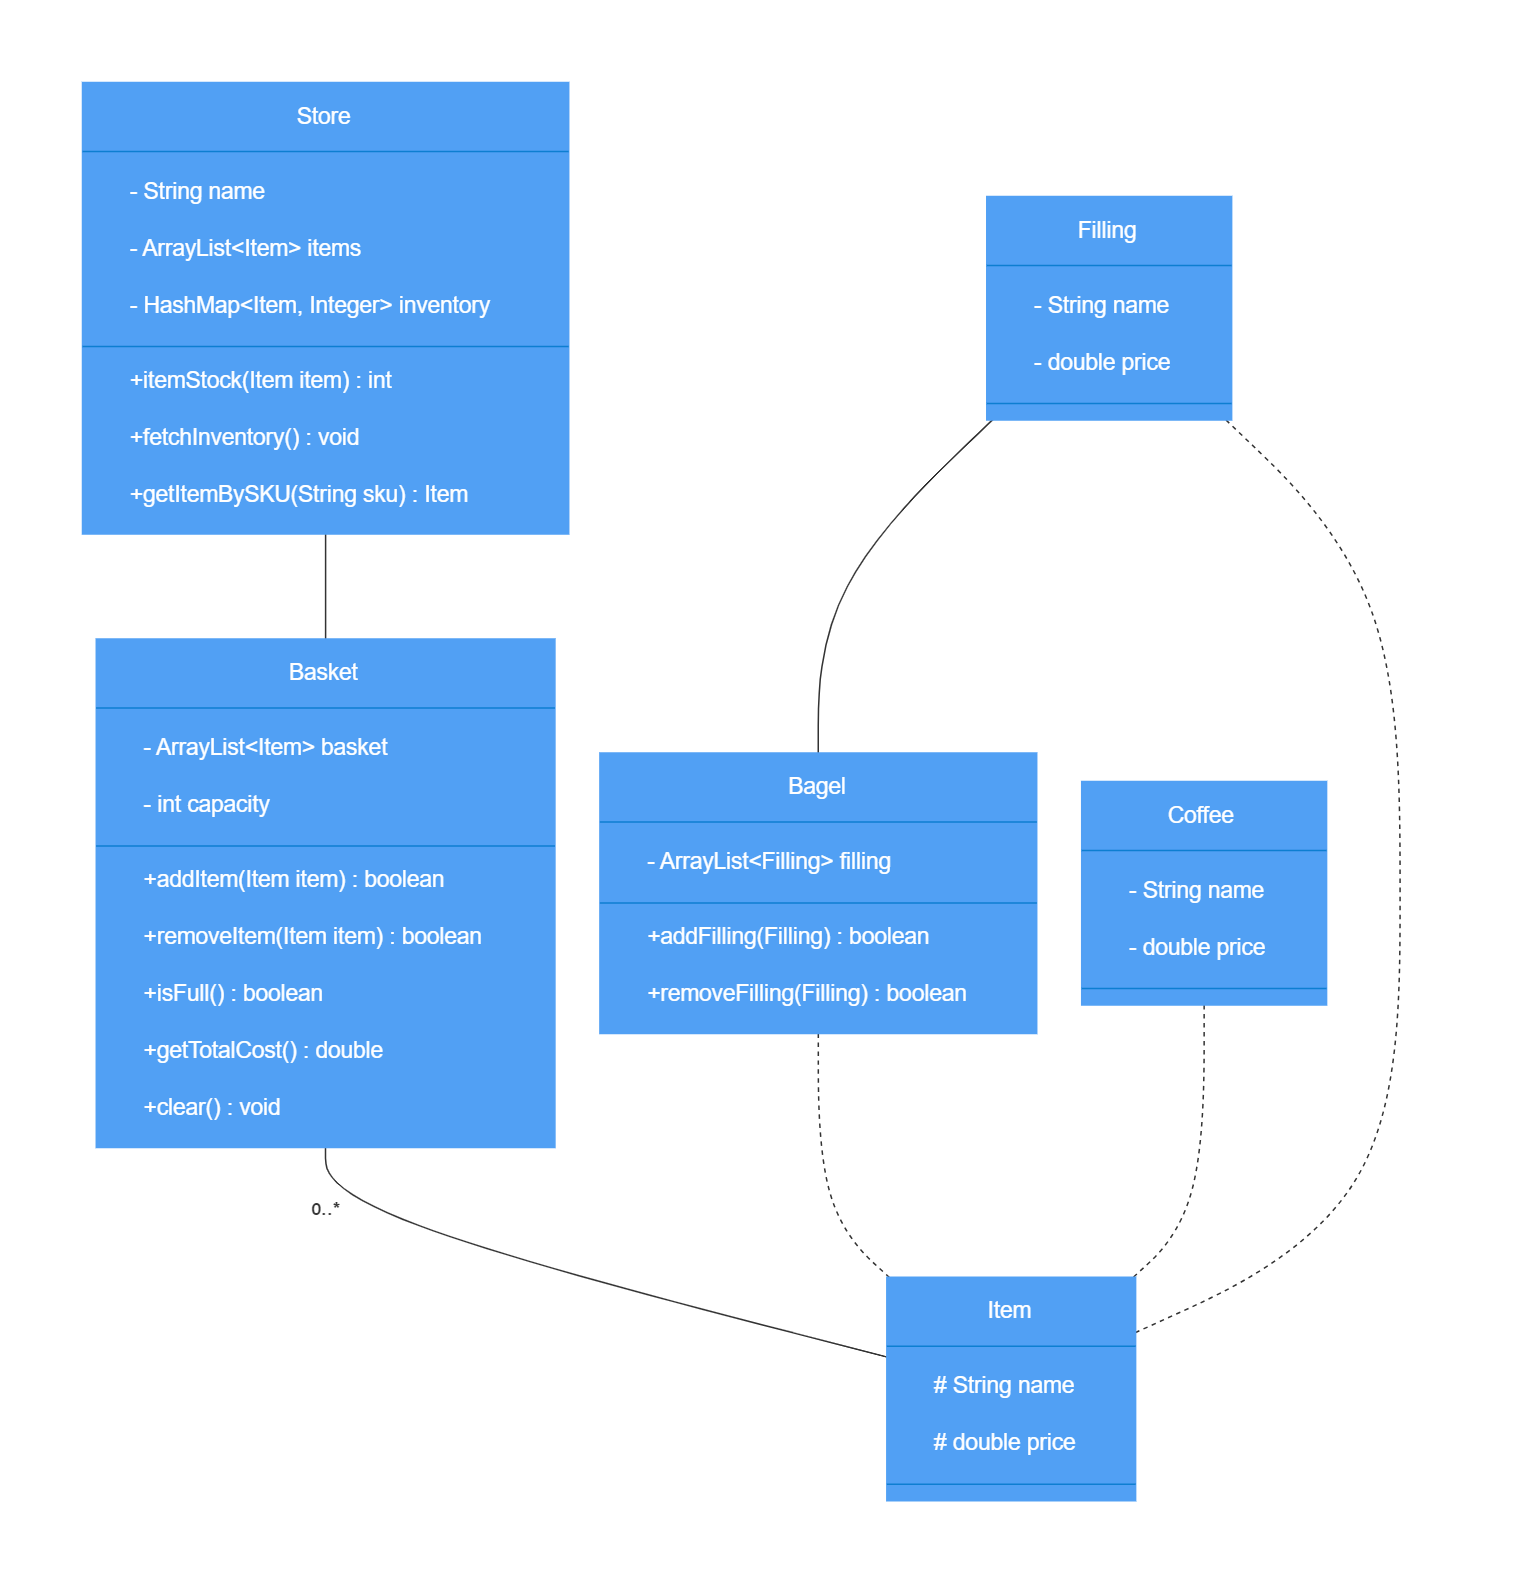
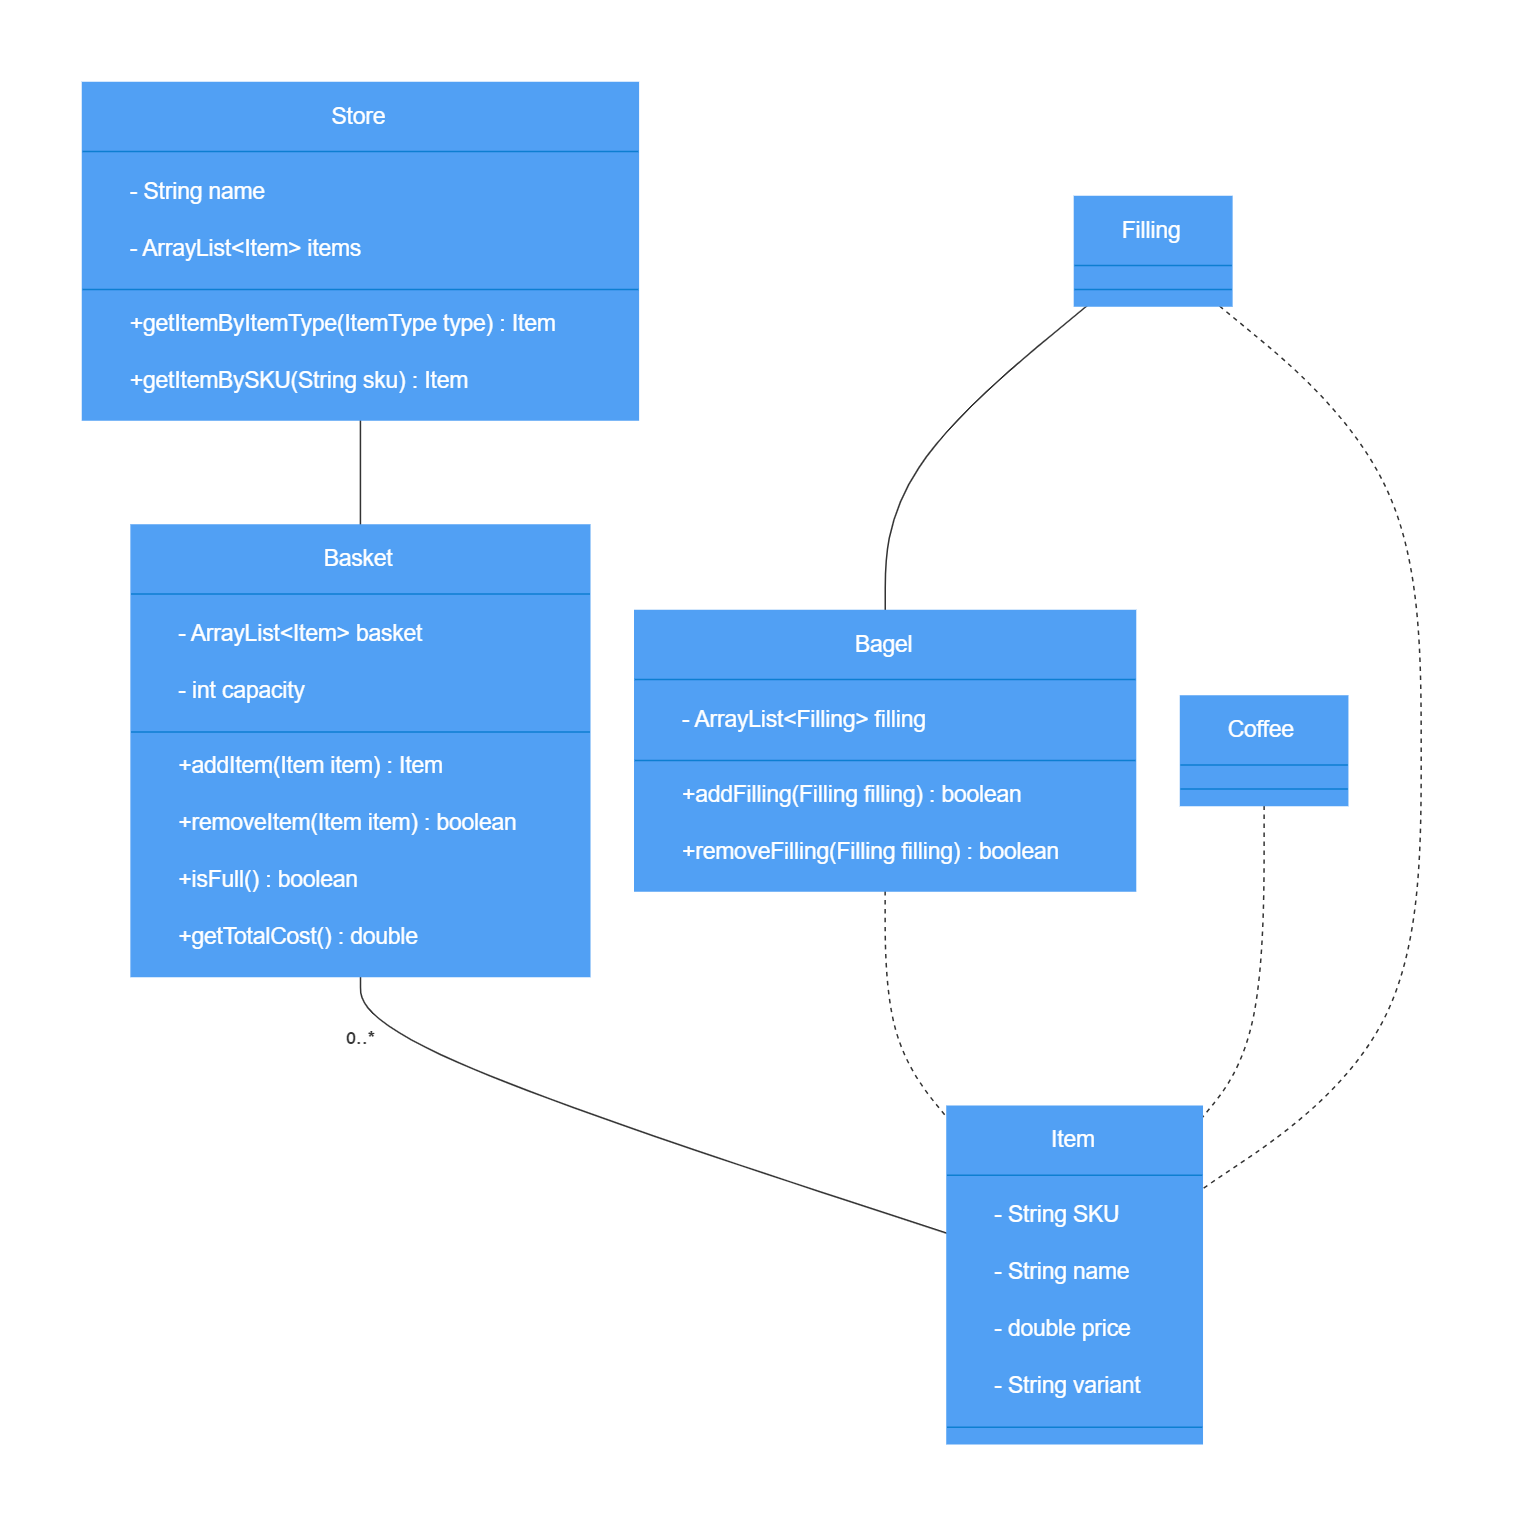
Update models and diagrams for core and extension

diff --git a/exercise-files/domain-model-core.md b/exercise-files/domain-model-core.md
@@ -2,21 +2,17 @@
 
 Accessor methods are not included in the domain model (eg. setCapacity(int), getBasket(), etc)
 
-| Class                    | Method                  | Return value | Class variable           | Description                                         |
-|--------------------------|-------------------------|--------------|--------------------------|-----------------------------------------------------|
-| Store                    | itemStock(Item)         | int          | HashMap\<Item, Integer>  | Checks if item is in stock                          |
-|                          | fetchItems()            | void         |                          |                                                     |
-|                          | getItemBySKU()          | Item         | ArrayList<Item>          |                                                     |
-| Basket                   | addItem(Item)           | boolean      | ArrayList\<Item>         | Adds a specific type of Item to the Basket          |
-|                          | removeItem(Item)        | boolean      | ArrayList\<Item>         | Removes a specific type of Item from the Basket     |
-|                          | isFull()                | boolean      | ArrayList\<Item><br/>int | Checks if Basket is full based on capacity variable |
-|                          | getTotalCost()          | double       | ArrayList\<Item>         | Returns the total cost of all items in basket       |
-|                          | clear()                 | void         | ArrayList\<Item>         |                                                     |
-| Item                     | *Only accessor methods* |              | String<br/>double        |                                                     |
-| Bagel *(extends Item)*   | addFilling(Filling)     | boolean      | ArrayList\<Filling>      | Adds a Filling to a specific Bagel                  |
-|                          | removeFilling(Filling)  | boolean      | ArrayList\<Filling>      | Removes a Filling from a specific Bagel             |
-| Coffee *(extends Item)*  |                         |              |                          |                                                     |
-| Filling *(extends Item)* |                         |              |                          |                                                     |
+| Class                    | Method                            | Return value     | Class variable                           | Description                                           |
+|--------------------------|-----------------------------------|------------------|------------------------------------------|-------------------------------------------------------|
+| Store                    | getItemsByItemType(ItemType type) | ArrayList\<Item> | ArrayList\<Item> inventory               | Gets all items of a certain type (eg Coffee or Bagel) |
+|                          | getItemBySKU(String sku)          | Item             | ArrayList\<Item> inventory               | Gets a single item from inventory based on the SKU    |
+| Basket                   | addItem(Item item)                | Item             | ArrayList\<Item> basket                  | Adds a specific type of Item to the Basket            |
+|                          | removeItem(Item item)             | boolean          | ArrayList\<Item> basket                  | Removes a specific type of Item from the Basket       |
+|                          | isFull()                          | boolean          | ArrayList\<Item> basket<br/>int capacity | Checks if Basket is full based on capacity variable   |
+|                          | getTotalCost()                    | double           | ArrayList\<Item> basket                  | Returns the total cost of all items in basket         |
+| Item                     | *Only accessor methods*           |                  |                                          |                                                       |
+| Bagel *(extends Item)*   | addFilling(Filling filling)       | boolean          | ArrayList\<Filling> filling              | Adds a Filling to a specific Bagel                    |
+|                          | removeFilling(Filling filling)    | boolean          | ArrayList\<Filling> filling              | Removes a Filling from a specific Bagel               |
 
 # User Stories
 

diff --git a/exercise-files/domain-model-extension1.md b/exercise-files/domain-model-extension1.md
@@ -1,0 +1,14 @@
+# User Stories
+
+```
+As the owner of the store,
+So that i can charge the customers the correct amount,
+I'd like to calculate the discount of a given basket
+```
+
+# Domain Model
+
+| Class           | Method                           | Return value | Class variable          | Description                                                 |
+|-----------------|----------------------------------|--------------|-------------------------|-------------------------------------------------------------|
+| Basket          | getTotalCost()                   | double       | ArrayList\<Item> basket | Gets the correct total of the basket with discounts applied |
+| DiscountManager | getBasketDiscount(Basket basket) | double       |                         | Calculates the discount of the basket                       |

diff --git a/exercise-files/domain-model-extention2.md b/exercise-files/domain-model-extention2.md
@@ -10,6 +10,6 @@ I'd like to receive a printed receipt
 
 | Class          | Method         | Return value           | Class variable                | Description                                     |
 |----------------|----------------|------------------------|-------------------------------|-------------------------------------------------|
-| Basket         | getItemCount() | HashMap<Item, Integer> | ArrayList<Item> basket        | Gets the count of different items in the basket |
+| Basket         | getItemCount() | HashMap<Item, Integer> | ArrayList\<Item> basket       | Gets the count of different items in the basket |
 | ReceiptPrinter | print()        | String                 | Store store<br/>Basket basket | Returns the receipt in the form of a string     |
 
